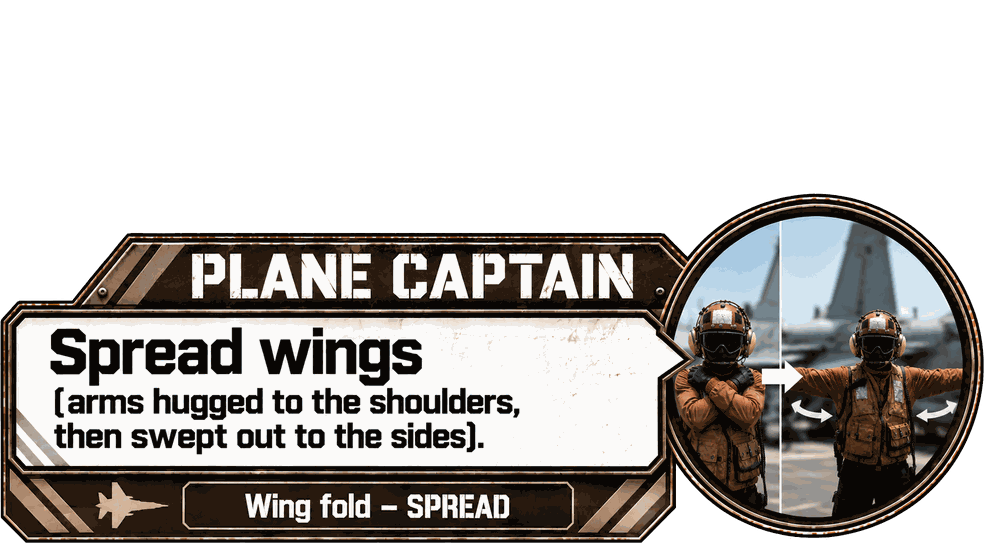
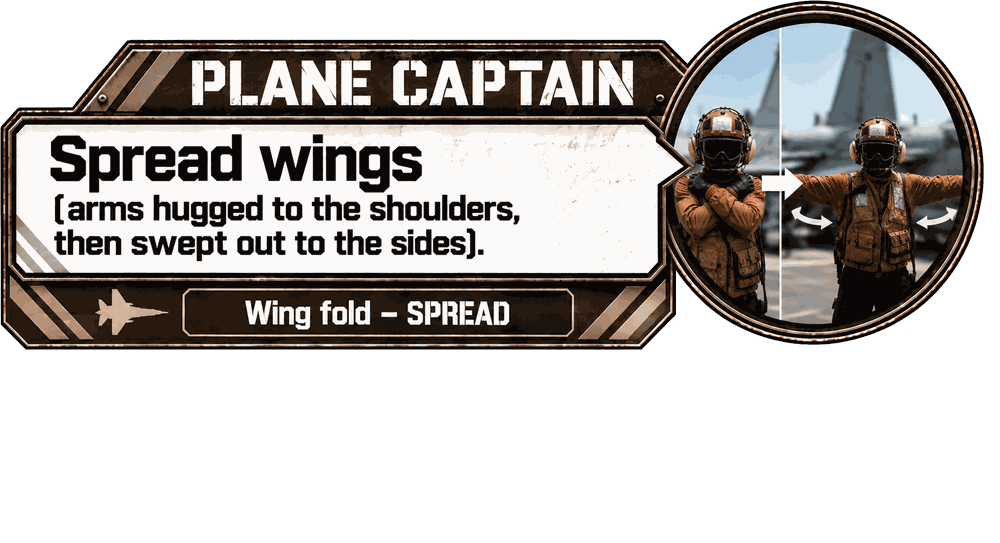
fix(Score_Display): v1.1.1 plane captain cards top-left, 24 %
Test 2026-10-28: all 21 cards shown, blank.png with clearView=true removes
the last card (S4) -> clearView=true clears earlier pictures. Cards moved to
top-left and made smaller; make_pc_cards v1.0.1 anchors them top-left.

Claude-Session: https://claude.ai/code/session_01Jqre9wbytcnaee8hsgejqy

diff --git a/tools/score_cards/make_pc_cards.py b/tools/score_cards/make_pc_cards.py
@@ -1,4 +1,4 @@
-# make_pc_cards.py | v1.0.0
+# make_pc_cards.py | v1.0.1
 # Plane captain step cards for PlaneCaptain_Carrier (via Score_Display, CAS (L) only).
 #
 #   python tools/score_cards/make_pc_cards.py "<Saved Games>/DCS/Missions/The Routine Things (With RAT)/Pics"
@@ -23,7 +23,7 @@ OUT = os.path.join(HERE, "out", "PlaneCaptain")
 IDS = ["S00", "S0P", "S2", "S2W", "S3", "S3W", "S4",
        "C1", "C2", "C3", "C4", "C5", "C6", "C7", "C8", "C9", "C10", "C11", "C12", "C13", "C14"]
 WIDTH = 1000
-ANCHOR = ("left", "bottom")          # matches Score_Display CFG.PC h = 0, v = 2
+ANCHOR = ("left", "top")             # v1.0.1: matches Score_Display CFG.PC h = 0, v = 0
 
 
 def main(src):
